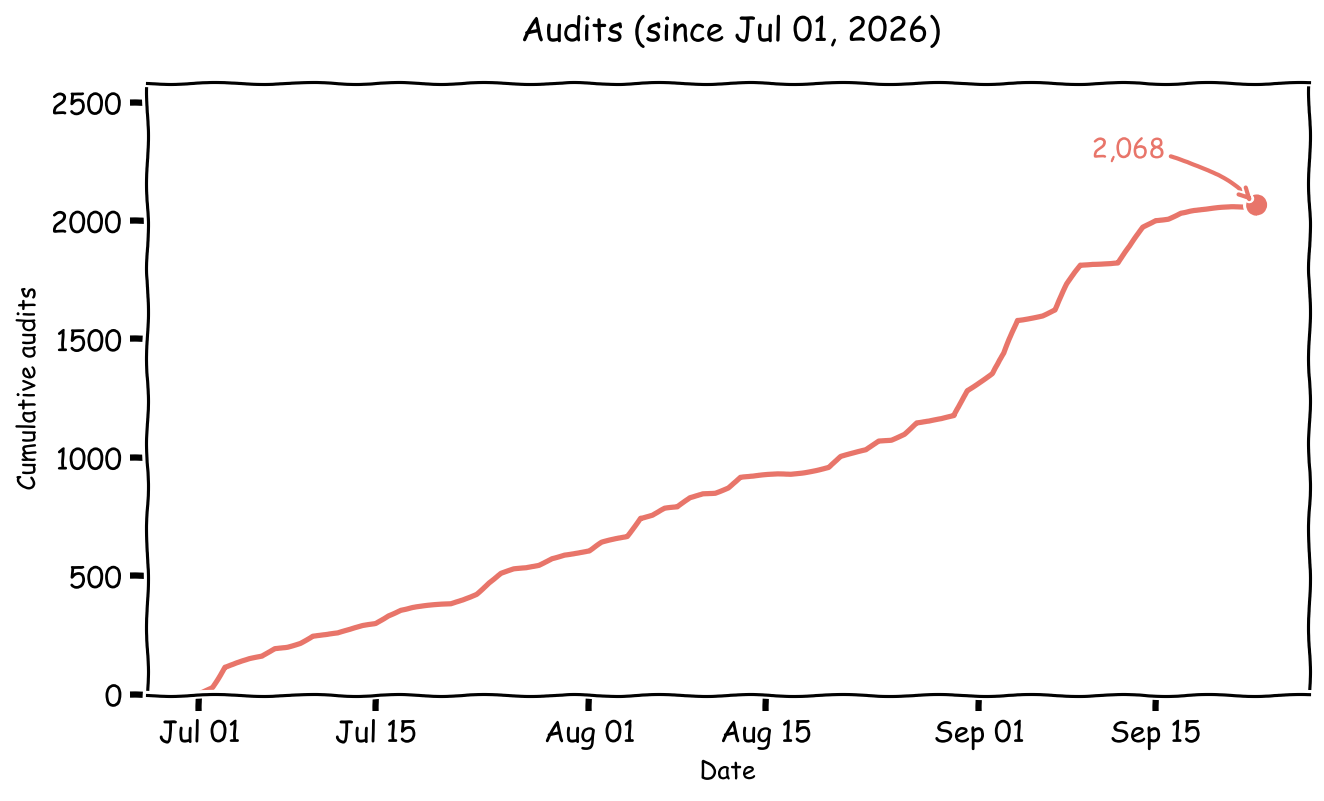
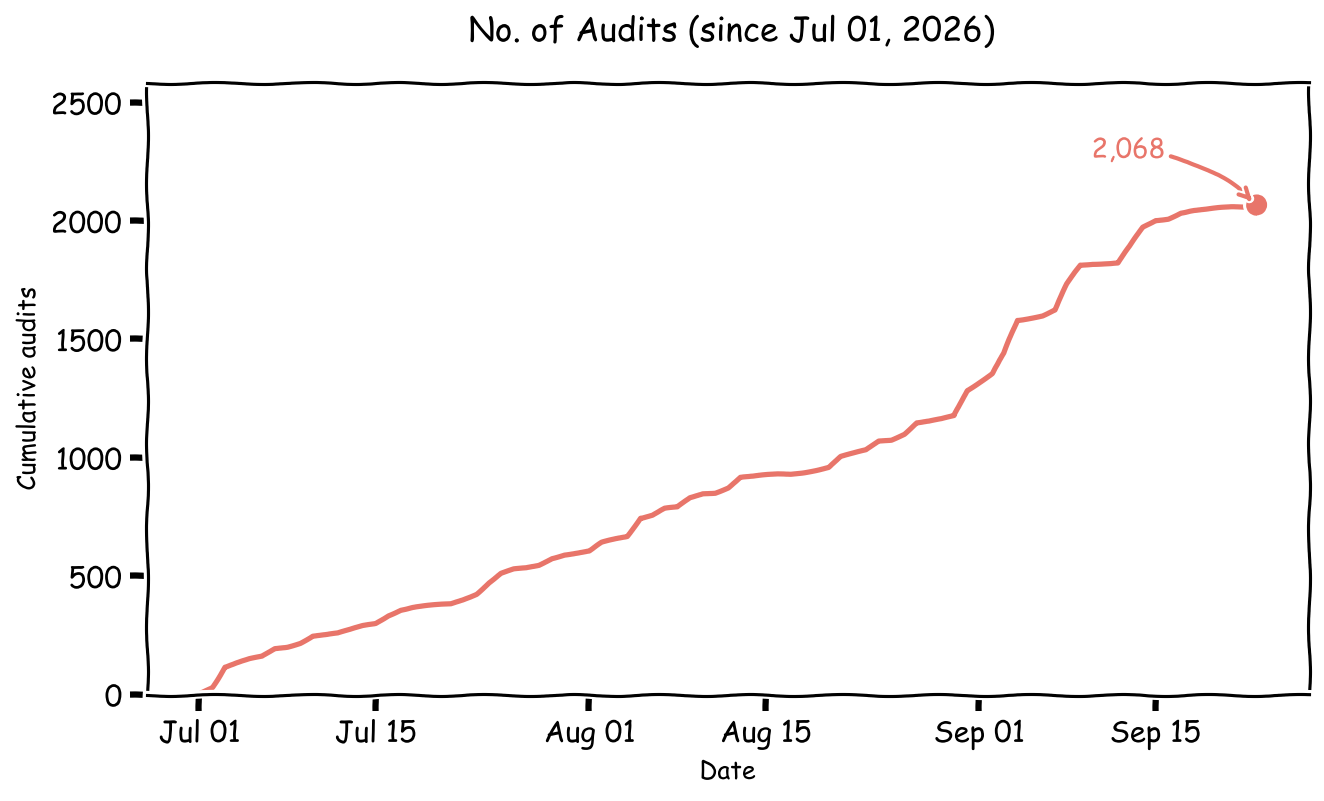
chore: chart title No. of Audits

Changed region(s): [[0.3406, 0.0, 0.7432, 0.0624]]

diff --git a/scripts/plot_traction.py b/scripts/plot_traction.py
@@ -74,7 +74,7 @@ def plot_audits(history: dict[str, int], out: Path) -> None:
         ax.set_facecolor("white")
 
         ax.plot(xs, ys, color=ACCENT, linewidth=2.5)
-        ax.set_title(f"Audits (since {xs[0]:%b %d, %Y})", fontsize=16, pad=20)
+        ax.set_title(f"No. of Audits (since {xs[0]:%b %d, %Y})", fontsize=16, pad=20)
         ax.set_xlabel("Date", fontsize=12)
         ax.set_ylabel("Cumulative audits", fontsize=12)
 
